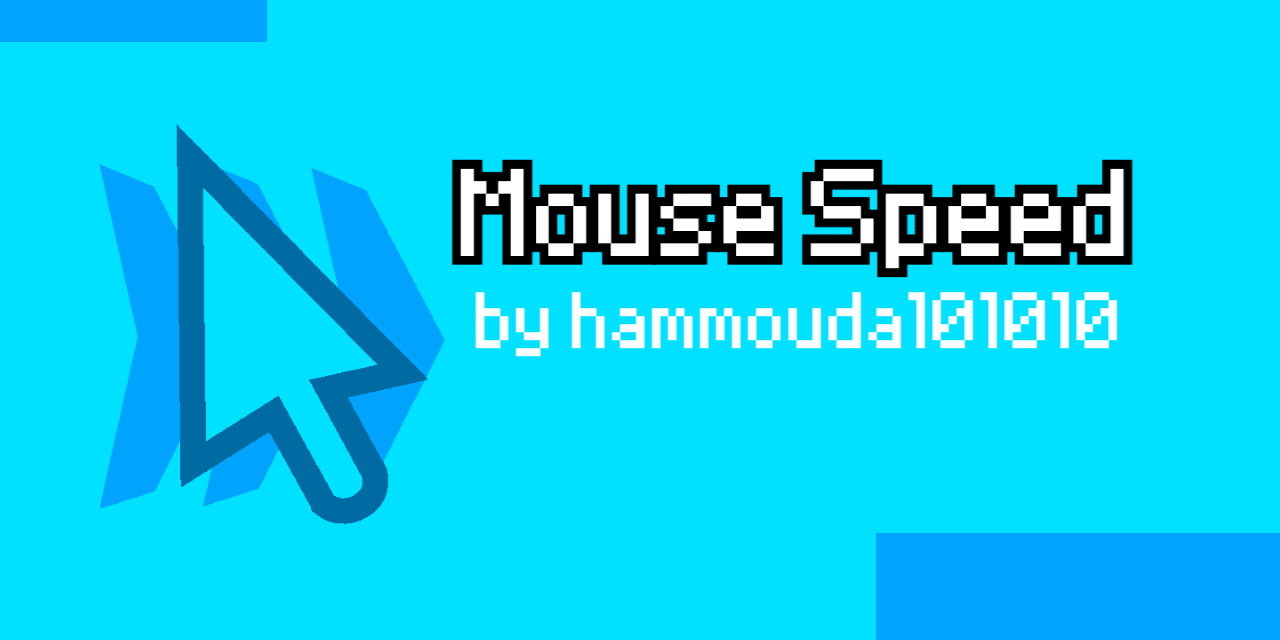
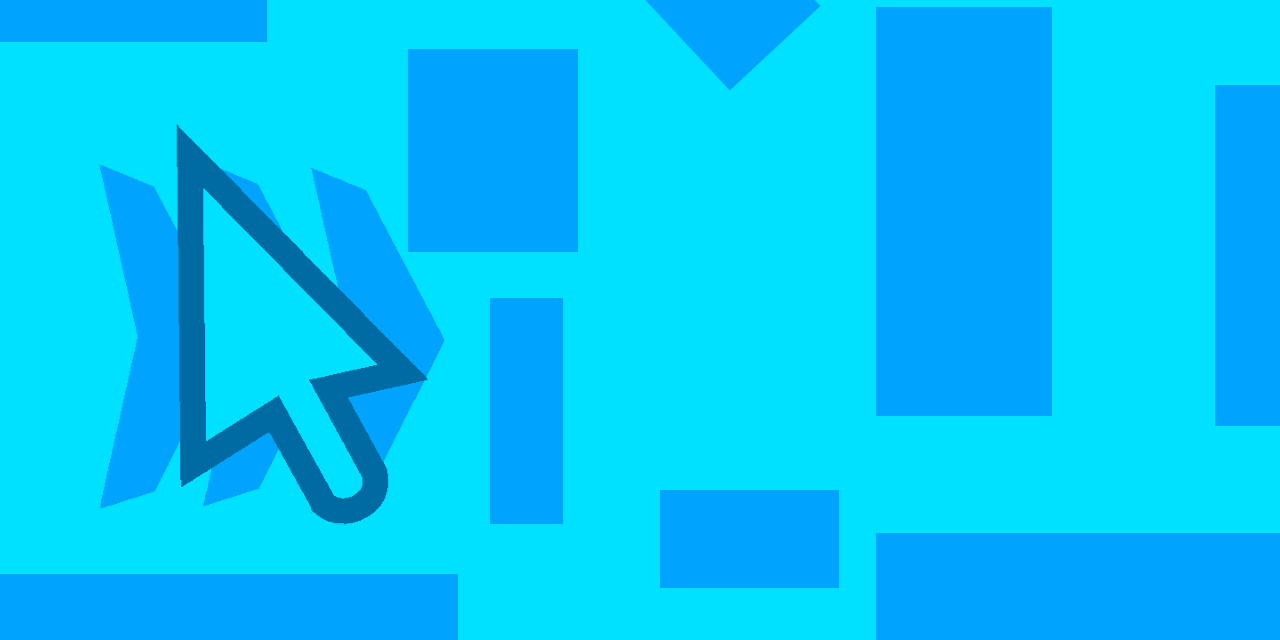
fixed format

diff --git a/extensions/Hammouda101010/mousespeed.js b/extensions/Hammouda101010/mousespeed.js
@@ -10,11 +10,16 @@
   if (!Scratch.extensions.unsandboxed) {
     throw new Error("This Hello World example must run unsandboxed");
   }
-  // Block Icon
-  const blockIconURI =
+  // Block Icons
+  const blocksIcon =
[1 lines of base64/hex data omitted]
-  const menuIconURI =
+  const menuIcon =
[1 lines of base64/hex data omitted]
+
+  const limitIcon =
[1 lines of base64/hex data omitted]
+  const noLimitIcon =
[1 lines of base64/hex data omitted]
 
   // Scratch's VM
   const vm = Scratch.vm;
@@ -27,8 +32,8 @@
       this.lastY = 0; // Previous mouse Y position
       this.lastTime = performance.now(); // Last time the mouse was updated
       this.speed = 0; // Speed of the mouse
-      this.limit = null //Mouse's speed limit
-      this.tolerance = 50 // Tolerance of the mouse's speed
+      this.limit = null; //Mouse's speed limit
+      this.tolerance = 50; // Tolerance of the mouse's speed
 
       // Bind this to the event listener to track mouse movement
       vm.renderer.canvas.addEventListener(
@@ -44,8 +49,8 @@
       return {
         id: "mousespeed",
         name: "Mouse Speed",
-        menuIconURI: menuIconURI,
-        blockIconURI: blockIconURI,
+        menuIconURI: menuIcon,
+        blockIconURI: blocksIcon,
         docsURI: "https://extensions.turbowarp.org/Hammouda101010/mousespeed",
         color1: "#38C3E5",
         color2: "#33A5C1",
@@ -62,7 +67,7 @@
             arguments: {
               SPEED: {
                 type: Scratch.ArgumentType.NUMBER,
-                defaultValue: 50
+                defaultValue: 50,
               },
             },
           },
@@ -70,36 +75,38 @@
             opcode: "mouseTolerance",
             blockType: Scratch.BlockType.COMMAND,
             text: "set mouse speed tolerance to [TOLERANCE]",
-            arguments:{
+            arguments: {
               TOLERANCE: {
                 type: Scratch.ArgumentType.NUMBER,
-                defaultValue: 50
-              }
-            }
+                defaultValue: 50,
+              },
+            },
           },
           {
             blockType: Scratch.BlockType.LABEL,
-            text: "Mouse Speed Limit"
+            text: "Mouse Speed Limit",
           },
           {
             opcode: "mouseLimit",
             blockType: Scratch.BlockType.COMMAND,
+            blockIconURI: limitIcon,
             text: "set mouse speed limit to [LIMIT]",
-            arguments:{
-              LIMIT:{
+            arguments: {
+              LIMIT: {
                 type: Scratch.ArgumentType.NUMBER,
-                defaultValue: 100
-              }
-            }
+                defaultValue: 100,
+              },
+            },
           },
           {
             opcode: "mouseLimitRemove",
             blockType: Scratch.BlockType.COMMAND,
-            text: "remove mouse speed limit"
+            blockIconURI: noLimitIcon,
+            text: "remove mouse speed limit",
           },
           {
             blockType: Scratch.BlockType.LABEL,
-            text: "Hats & Events"
+            text: "Hats & Events",
           },
           {
             opcode: "whenMouseFaster",
@@ -108,10 +115,10 @@
             arguments: {
               SPEED: {
                 type: Scratch.ArgumentType.NUMBER,
-                defaultValue: 50
-              }
-            }
-          }
+                defaultValue: 50,
+              },
+            },
+          },
         ],
       };
     }
@@ -154,9 +161,12 @@
       //Gets Mouse Speed
       if (this.limit === null) {
         return Math.round(this.speed / this.tolerance); // Return the rounded speed
-      }
-      else{
-        return this.clamp(Math.round(this.speed / this.tolerance), 0, this.limit); // Return the limited rounded speed
+      } else {
+        return this.clamp(
+          Math.round(this.speed / this.tolerance),
+          0,
+          this.limit
+        ); // Return the limited rounded speed
       }
     }
     mouseFaster(args) {
@@ -166,23 +176,20 @@
 
     mouseTolerance(args) {
       //sets the mouse's tolerance
-      this.tolerance = args.TOLERANCE
+      this.tolerance = args.TOLERANCE;
     }
 
     mouseLimit(args) {
-      this.limit = args.LIMIT
+      this.limit = args.LIMIT;
     }
 
-    mouseLimitRemove(){
-      this.limit = null
+    mouseLimitRemove() {
+      this.limit = null;
     }
-    
+
     whenMouseFaster(args) {
-      return this.getMouseSpeed() > args.SPEED
+      return this.getMouseSpeed() > args.SPEED;
     }
-
-    
-    
   }
 
   vm.runtime.on("BEFORE_EXECUTE", () => {
